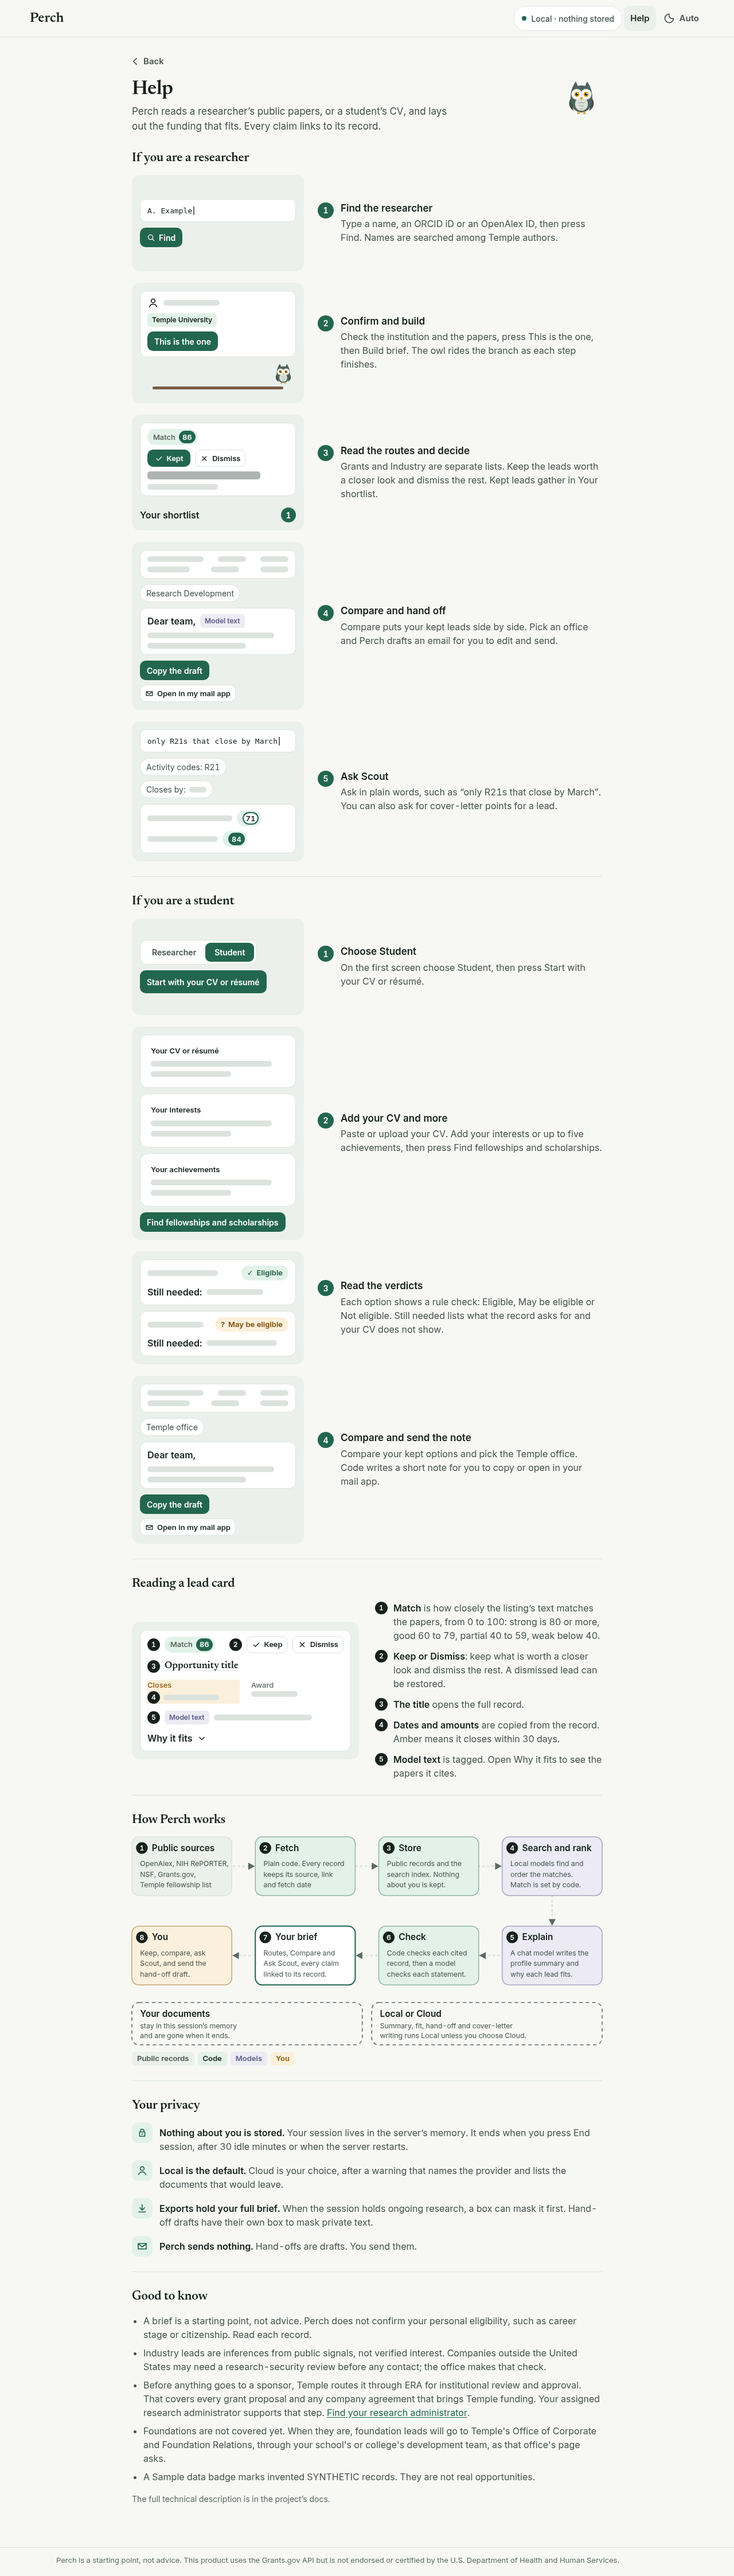
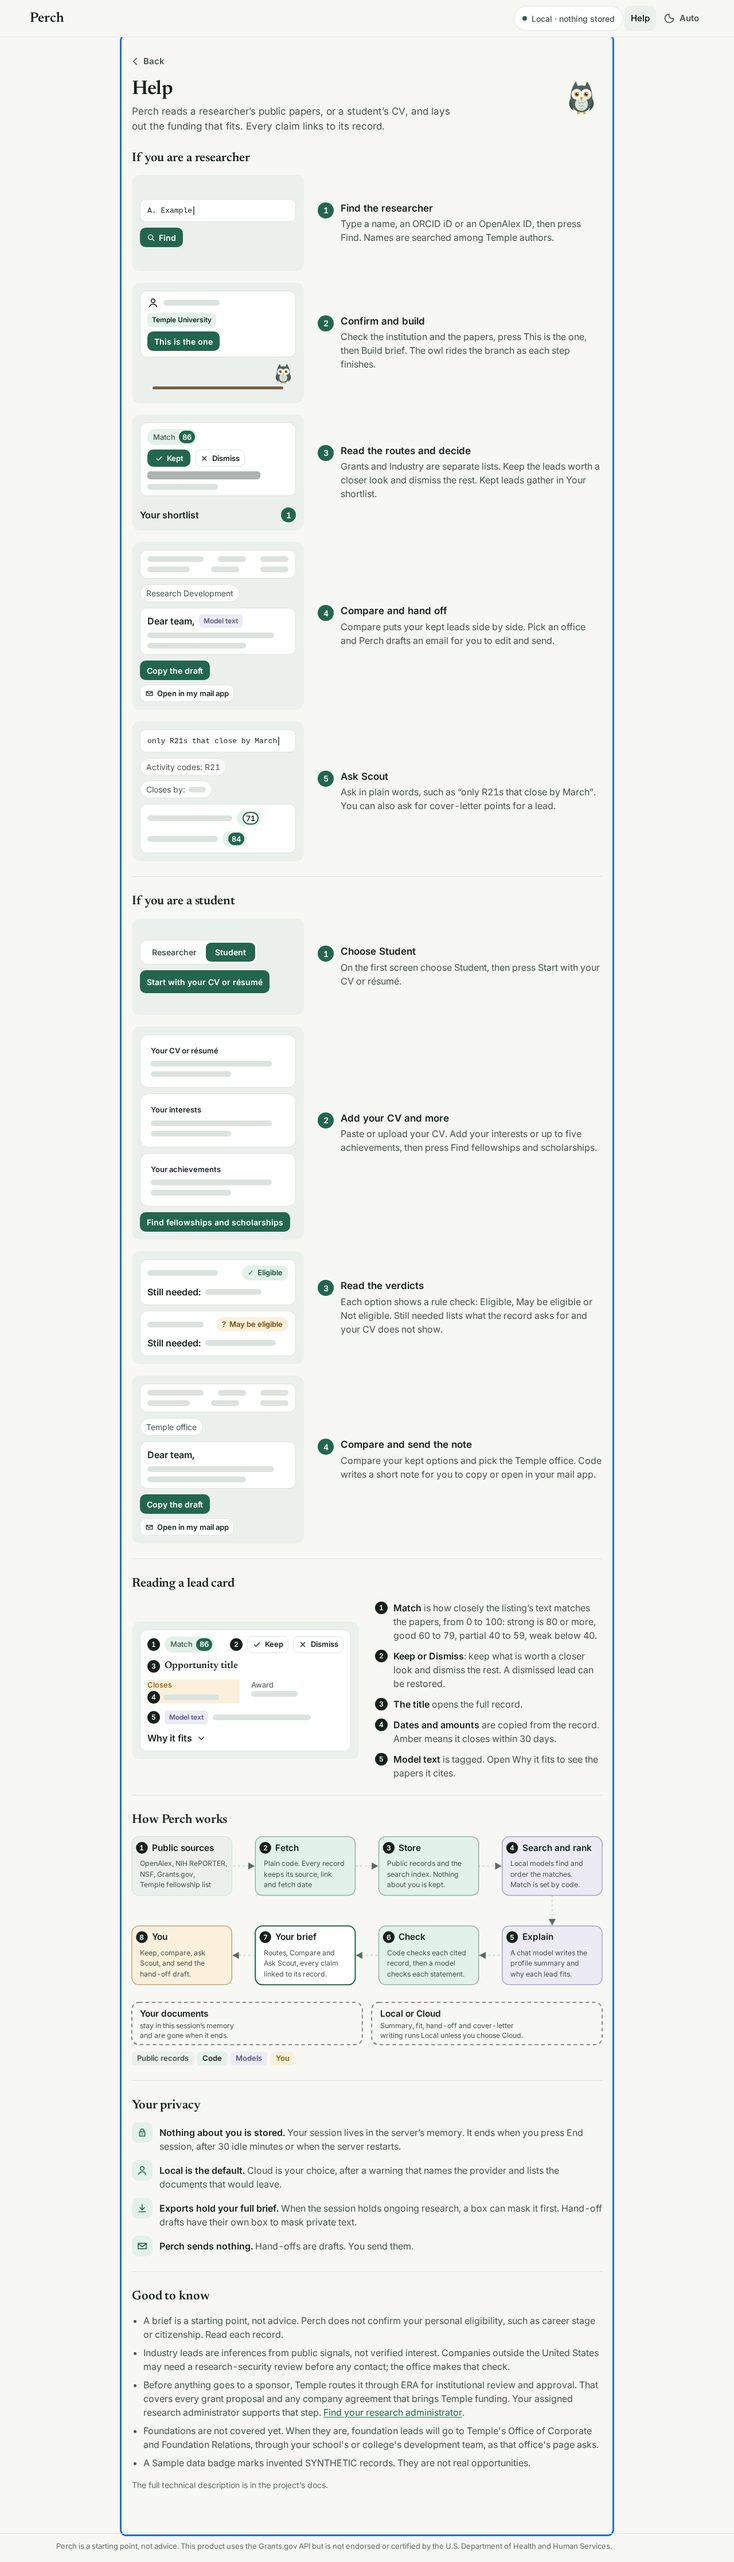
Help: phone layout about a quarter shorter (6,901 to 5,248 px at 390), walk checks height and diagram text fit

diff --git a/web/help.js b/web/help.js
@@ -208,7 +208,7 @@ const SR_LIST = [
 ];
 
 function archSvg(vertical) {
-  const W = vertical ? 340 : 800, NW = vertical ? 340 : 170, NH = vertical ? 84 : 100, GAP = vertical ? 20 : 40, RG = 52;
+  const W = vertical ? 340 : 800, NW = vertical ? 340 : 170, NH = vertical ? 66 : 100, GAP = vertical ? 16 : 40, RG = 52;
   const pos = (i) => {  // top-left of node i
     if (vertical) return [0, i * (NH + GAP)];
     const r = i < 4 ? 0 : 1, c = r ? 7 - i : i;
@@ -220,14 +220,23 @@ function archSvg(vertical) {
   let d = `M${mid[0][0]} ${mid[0][1]}`;
   if (vertical) d += ` V${mid[7][1]}`; else d += ` H${mid[3][0]} V${mid[4][1]} H${mid[7][0]}`;
   kids.push(s("path", { d, class: "arch-rail" }), s("circle", { r: 5, class: "arch-dot", style: `offset-path: path("${d}")` }));
-  NODES.forEach(([kind, title, lines], i) => {
+  const rewrap = (lines) => {  // the column is wide enough for two lines a node
+    const words = lines.join(" ").split(" "), out = [""];
+    for (const w of words) {
+      if ((out[out.length - 1] + " " + w).trim().length > 46) out.push(w);
+      else out[out.length - 1] = (out[out.length - 1] + " " + w).trim();
+    }
+    return out;
+  };
+  NODES.forEach(([kind, title, lines0], i) => {
+    const lines = vertical ? rewrap(lines0) : lines0;
     const [x, y] = pos(i);
     kids.push(s("g", { class: `arch-n ${kind}` },
       s("rect", { x, y, width: NW, height: NH, rx: 12 }),
       s("circle", { cx: x + 17, cy: y + 19, r: 10, class: "arch-num" }),
       s("text", { x: x + 17, y: y + 19, class: "arch-numt" }, String(i + 1)),
       s("text", { x: x + 34, y: y + 24, class: "arch-t" }, title),
-      lines.map((l, j) => s("text", { x: x + 14, y: y + (vertical ? 44 : 50) + j * (vertical ? 16 : 18), class: "arch-s" }, l))));
+      lines.map((l, j) => s("text", { x: x + 14, y: y + (vertical ? 42 : 50) + j * (vertical ? 15 : 18), class: "arch-s" }, l))));
     if (i === 7) return;
     // an arrowhead in the gap after node i
     const [x2, y2] = pos(i + 1);
@@ -239,8 +248,8 @@ function archSvg(vertical) {
     kids.push(s("polygon", { points: pts, class: "arch-head" }));
   });
   // the side lane: boxes drawn after the nodes
-  const top = vertical ? 8 * NH + 7 * GAP + 26 : 2 * NH + RG + 30;
-  const lw = vertical ? W : 392, lh = vertical ? 70 : 72;
+  const top = vertical ? 8 * NH + 7 * GAP + 18 : 2 * NH + RG + 30;
+  const lw = vertical ? W : 392, lh = vertical ? 68 : 72;
   LANE.forEach(([t, lines], i) => {
     const x = vertical ? 0 : i * (lw + 16), y = vertical ? top + i * (lh + 12) : top;
     kids.push(s("g", { class: "arch-lane" }, s("rect", { x, y, width: lw, height: lh, rx: 12 }),

diff --git a/web/styles.css b/web/styles.css
@@ -673,8 +673,31 @@ body.on-help .banner { display: none; }
 
 @media (max-width: 639px) {
   .g-step, .anatomy { grid-template-columns: minmax(0, 1fr); }
-  .g-steps { gap: 28px; }
-  .fig { min-height: 0; }
+  .g-steps { gap: 18px; }
+  .g-step { gap: 6px; }
+  .help-block { gap: 10px; padding: 14px 0 16px; }
+  .fig { min-height: 0; padding: 8px 10px; }
+  .fx { gap: 6px; }
+  .pic-card { padding: 6px 10px; gap: 5px; }
+  .pic-branch { height: 44px; }
+  .pic-btn { min-height: 28px; }
+  .g-t { row-gap: 2px; }
+  .callouts { gap: 8px; }
+  .anatomy { gap: 10px; }
+  .anat .pic-card { gap: 8px; }
+  .priv, .plain-list { gap: 8px; }
+  .fig .fx { zoom: .8; }
+  .help p, .help li, .help .lede { font-size: 15px; line-height: 1.4; }
+  .g-t h3 { font-size: 16px; }
+  .help .section-title { font-size: 20px; }
+  .help-head { gap: 8px; }
+  .help-owl { width: 56px; height: 56px; }
+  .fig .pic-card.box { grid-template-columns: auto minmax(0, 1fr); align-items: center; }
+  .fig .pic-card.box .ph + .ph { display: none; }
+  .fig .dim-later, .fig .pic-card:has(> .pic-row.in1:first-child):has(+ .chip) { display: none; }
+  .fig .pic-card + .pic-card:last-child:has(.fit) { display: none; }
+  .anat { padding: 8px; }
+  .callouts li { font-size: 14px; }
   .arch-w { display: none; }
   .arch-v { display: block; }
 }

diff --git a/scripts/ux_walk.py b/scripts/ux_walk.py
@@ -124,6 +124,7 @@ EVIDENCE = """() => {
 # Leftovers of the ask-first mode, gone since S27: no Approve or Skip, no "Waiting for you".
 
 HELP_WORDS_MAX = 2300  # a third of the 6,891 words the old page had
+HELP_PHONE_MAX_PX = 5600  # Help at 390 px wide was 6,901 px tall before the 2 Nov phone tightening
 # U39 (rewritten 2 Nov): Help is a short visual guide. The probe counts the words a reader
 # gets, finds the visible architecture diagram (one of two layouts, the other is display:none)
 # and the sideways overflow at the current width.
@@ -133,7 +134,10 @@ HELP_PROBE = """() => { const help = document.querySelector('.help');
     && e.getClientRects().length).map((e) => e.tagName + '.' + String(e.getAttribute('class')).slice(0, 30)).slice(0, 4);
   return { words: help.innerText.split(/\\s+/).filter(Boolean).length, diagram: vis.length,
            label: vis[0] ? vis[0].getAttribute('aria-label') : null, sw: document.documentElement.scrollWidth,
-           cw: document.documentElement.clientWidth, over,
+           cw: document.documentElement.clientWidth, over, height: document.documentElement.scrollHeight,
+           clipped: vis[0] ? [...vis[0].querySelectorAll('g')].flatMap((g) => { const r = g.querySelector('rect').getBBox();
+             return [...g.querySelectorAll('text')].filter((t) => t.getBBox().y + t.getBBox().height > r.y + r.height - 2
+               || t.getBBox().x + t.getBBox().width > r.x + r.width).map((t) => t.textContent.slice(0, 20)); }) : [],
            motion: [...document.styleSheets].some((ss) => { try { return [...ss.cssRules].some((r) => r.media && /prefers-reduced-motion: reduce/.test(r.conditionText || r.media.mediaText) && /help|fig/.test(r.cssText)); } catch (e) { return false; } }) }; }"""
 
 GATE = """() => [...document.querySelectorAll('.scout-card, .help, main')].some(el =>
@@ -1847,9 +1851,13 @@ async def ux_landing(w: Walk, page: Page, base: str, tag: str) -> None:
         w.errors.append(f"{tag}: U39: Help scrolls sideways ({hp['sw']} > {hp['cw']} px) {hp['over']}")
     if not hp["motion"]:
         w.errors.append(f"{tag}: U39: Help has no reduced-motion block")
+    if phone and hp["height"] > HELP_PHONE_MAX_PX:
+        w.errors.append(f"{tag}: U39: Help is {hp['height']} px tall on a phone (max {HELP_PHONE_MAX_PX})")
+    if hp["clipped"]:
+        w.errors.append(f"{tag}: U39: diagram text runs past its box {hp['clipped']}")
     if await page.evaluate("() => /hello/i.test(document.querySelector('.help').innerText)"):
         w.errors.append(f"{tag}: U40: Help still says hello")
-    print(f"{tag}: Help words {hp['words']}, scroll {hp['sw']}/{hp['cw']}")
+    print(f"{tag}: Help words {hp['words']}, height {hp['height']}, scroll {hp['sw']}/{hp['cw']}")
     await help_snap(w, page, tag, "u-help-top", full=True)
     if phone:
         return
